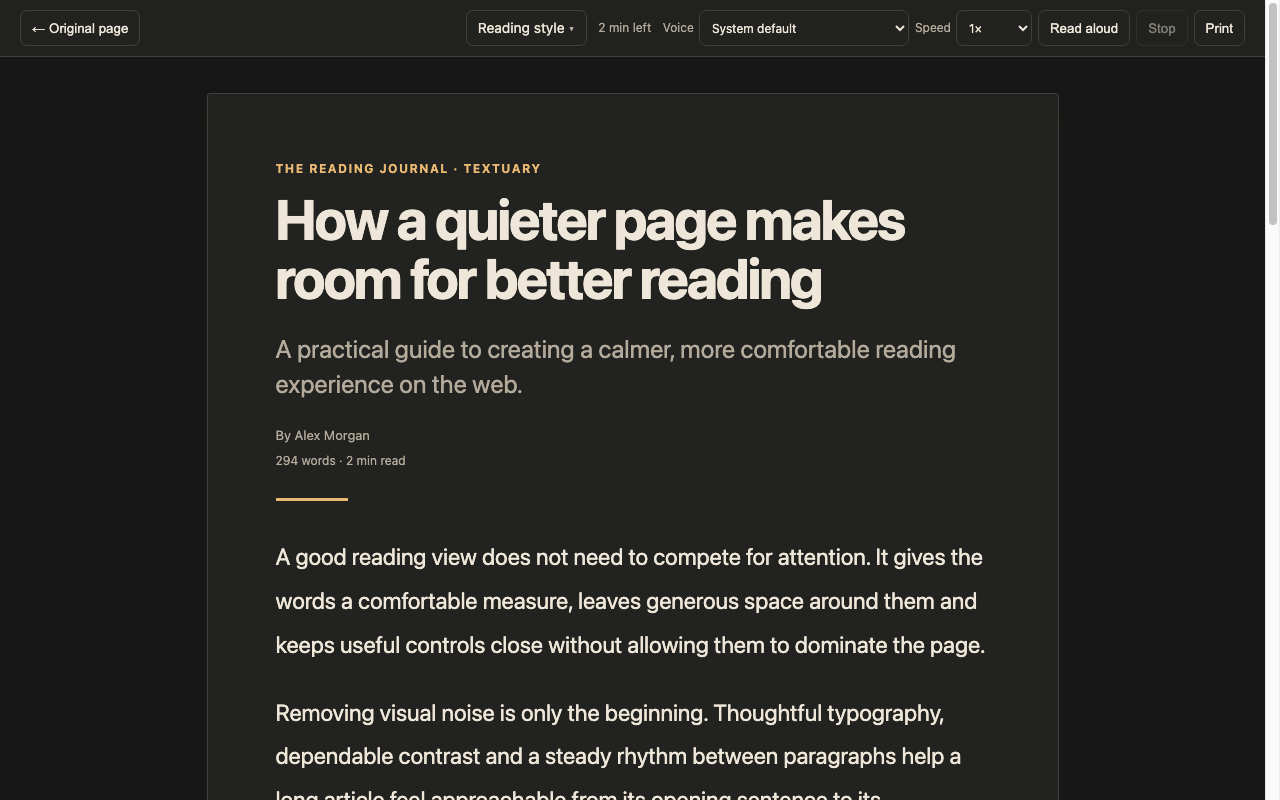
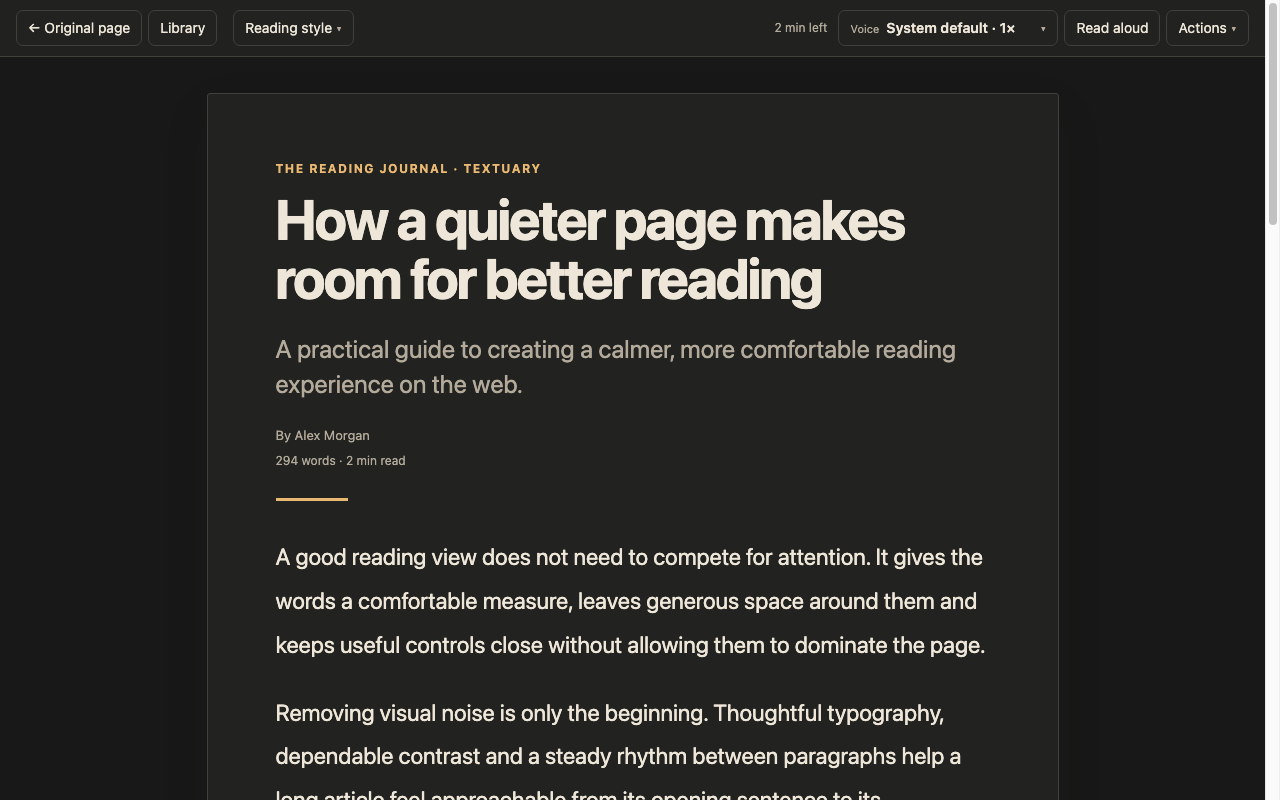
Refresh Textuary 2.8 store materials

diff --git a/store/chrome/LISTING.md b/store/chrome/LISTING.md
@@ -1,12 +1,12 @@
 # Chrome Web Store Listing
 
-Prepared for Textuary 2.6.0 experimental validation; refresh screenshots and final wording before submission.
+Prepared for Textuary 2.8.0 release validation; confirm the final dashboard rendering before submission.
 
 ## Product details
 
 **Name:** Textuary — Article Reader & Text Sanctuary
 
-**Summary:** Read and listen to articles in a calm text sanctuary with progress, typography controls and private read-aloud.
+**Summary:** Read, listen to and save articles in a calm text sanctuary with private read-aloud and an account-free local Library.
 
 **Category:** Productivity
 
@@ -27,16 +27,19 @@ Features:
 - selectable voice and playback speed
 - pause, resume and stop controls
 - automatic highlighting of the passage being read aloud
-- clean printing and PDF output
+- an account-free local Library with offline clean-text snapshots
+- Library search, read/unread controls and restored reading and read-aloud positions
+- same-tab return from the Library without duplicate article tabs
+- clean printing and PDF output using the selected reader typeface
 - a keyboard shortcut for quick access
 
-Textuary runs only when you activate it. Article extraction and sanitisation happen locally in the browser. Reading and speech preferences are saved only in browser extension storage. If the user enables Natural voices, the browser downloads and caches approximately 330 MB of model data from Hugging Face; the packaged runtime still generates speech locally and never transmits article text. Textuary contains no advertising or analytics and does not transmit article text or browsing activity to the developer.
+Textuary runs only when you activate it. Article extraction and sanitisation happen locally in the browser. Reading and speech preferences are saved in local browser extension storage. An article snapshot, its original URL and reading state are stored only when the user explicitly chooses Save article; Textuary does not upload or synchronise the Library. If the user enables Natural voices, the browser downloads and caches approximately 330 MB of model data from Hugging Face; the packaged runtime still generates speech locally and never transmits article text. Textuary contains no advertising or analytics and does not transmit article text or browsing activity to the developer.
 
 Some pages do not deliver their complete article to the browser. Textuary can reorganise content that is available in the page, but it cannot retrieve text that was never delivered.
 
 ## Single purpose
 
-Transform the article in the user-selected active tab into a clean local reading view and provide reading controls for that article.
+Transform an article in the user-selected active tab into a clean local reading view with reading, listening, printing and explicitly requested local saving controls.
 
 ## Permission justifications
 
@@ -50,12 +53,13 @@ Runs the packaged Readability, DOMPurify and Textuary code in the user-selected 
 
 ### `storage`
 
-Remembers the user's selected theme, typography, speech engine, voice, speech speed and Natural-voice consent locally. It does not store article content, URLs, browsing history or reading activity.
+Stores the user's selected theme, typography, speech engine, voice, speech speed and Natural-voice consent locally. It also holds clean article snapshots, original URLs and reading state only for articles the user explicitly saves in the local Library. Textuary does not use browser sync storage and does not collect browsing history.
 
 ## Privacy declarations
 
 - Website content and the active page URL are processed locally solely to provide the reader feature requested by the user.
 - Theme, typography, voice and speech-speed preferences are stored locally through browser extension storage.
+- Clean article HTML, its original URL, metadata and reading state are stored locally only after the user explicitly chooses **Save article**. Saved entries are not uploaded or synchronised by Textuary and can be individually deleted or cleared from the Library.
 - No article content, URLs or browsing activity are transmitted to the developer or a speech service. After opt-in, ordinary model-file requests are made to Hugging Face without article text.
 - No data is sold or used for advertising, creditworthiness or purposes unrelated to the extension's single purpose.
 - No remotely hosted executable code is used. Kokoro model and voice files are downloaded data interpreted by the packaged runtime.
@@ -83,8 +87,10 @@ The dashboard wording may change. Ensure its selected data categories describe l
 2. Open a substantial public article over `https` and wait for it to load.
 3. Click the Textuary toolbar button.
 4. Confirm that the page becomes a clean article view.
-5. Test the reading-time display, progress bar, Reading style controls, printing and read-aloud highlighting.
-6. Click **Original page** to restore the source page.
+5. Test the reading-time display, floating time remaining, progress bar, Reading style controls, Voice popover, printing and read-aloud highlighting.
+6. Open **Actions**, choose **Save article**, then open **Library** and confirm the saved article appears.
+7. Choose **Return to article** and confirm the reader returns in the same tab.
+8. Click **Original page** to restore the source page.
 
 No account or test credentials are required.
 
@@ -93,6 +99,8 @@ No account or test credentials are required.
 - `../../icons/icon-128-store.png` — padded 128 x 128 store icon
 - `assets/reader-light-1280x800.png` — primary product screenshot
 - `assets/reader-dark-1280x800.png` — dark-theme product screenshot
+- `assets/reader-voice-1280x800.png` — voice and speed controls
+- `assets/library-1280x800.png` — account-free local Library
 - `assets/promo-small-440x280.png` — small promotional tile
 
 See [the submission checklist](SUBMISSION_CHECKLIST.md) for the remaining account and Windows-test steps.

diff --git a/RELEASE_2_8_NEXT_STEPS.md b/RELEASE_2_8_NEXT_STEPS.md
@@ -1,0 +1,89 @@
+# Textuary 2.8 Release Next Steps
+
+Status: release preparation after successful macOS Chrome and Safari validation
+
+This checklist records the work required before beginning Textuary 2.9. Version 2.8 is functionally complete; the remaining work is release preparation, Windows validation and store submission.
+
+## 1. Close the 2.8 documentation
+
+- [x] Record successful manual macOS Chrome and packaged Safari validation.
+- [x] Refresh the Chrome Web Store listing for the 2.8 Library, toolbar, printing and read-aloud interface.
+- [x] Update permission explanations and reviewer instructions for explicitly saved local article snapshots.
+- [x] Keep the listing, privacy policy, support guide and manifests consistent.
+- [x] Update the Chrome submission checklist from its earlier 2.5 scope.
+
+## 2. Refresh store artwork
+
+- [x] Replace the old reader screenshots with the finished 2.8 interface.
+- [x] Include the main reader, Voice popover, evening theme and local Library.
+- [x] Confirm every screenshot is an authentic 1280 x 800 PNG using synthetic article content.
+- [x] Revalidate the 128 x 128 icon and 440 x 280 promotional tile.
+- [x] Review every image at actual size for cropping, temporary notices and test artefacts.
+
+## 3. Validate the exact release on Windows Chrome
+
+- [ ] Install the unpacked release package in ordinary Windows Chrome.
+- [ ] Confirm extraction across several ordinary public publishers.
+- [ ] Check the complete toolbar at common desktop window sizes.
+- [ ] Check paper, evening and ambient themes plus every typography control.
+- [ ] Test Windows system voices, selection and playback speed.
+- [ ] Test Kokoro/WebGPU startup, performance and fallback behaviour.
+- [ ] Test pause, resume, Stop, passage highlighting and saved-passage restoration.
+- [ ] Test Save article, Library, deletion, clear-all and Return to article.
+- [ ] Test `Alt+Shift+R`.
+- [ ] Test printing/PDF margins and the selected reader typeface.
+- [ ] Confirm there are no macOS-only assumptions in copy, paths, fonts or shortcuts.
+
+Record the Windows version, Chrome version, graphics adapter and any WebGPU fallback observed.
+
+## 4. Create the final release
+
+- [ ] Merge `feature/safari-native-premium-voices` into `main` without losing the preserved history.
+- [ ] Confirm all manifests, package metadata and Xcode targets use version 2.8.0 and an appropriate build number.
+- [ ] Run the complete automated checks and `npm run release:chrome`.
+- [ ] Test the exact generated ZIP on macOS and Windows rather than relying only on the working directory.
+- [ ] Create a checksum for the final ZIP.
+- [ ] Tag `v2.8.0`.
+- [ ] Create a GitHub release containing release notes, the Chrome ZIP and the checksum.
+
+## 5. Submit to the Chrome Web Store
+
+Account-owner actions:
+
+- [ ] Register and configure the Chrome Web Store developer account.
+- [ ] Confirm the public developer/publisher display name.
+- [ ] Complete any required registration payment and account verification.
+- [ ] Upload the final 2.8 ZIP and prepared assets.
+- [ ] Complete the Store Listing, Privacy and Distribution sections.
+- [ ] Select public, free distribution and the intended supported regions.
+- [ ] Review the rendered listing and screenshot cropping.
+- [ ] Submit with deferred publishing if a manual release after approval is preferred.
+- [ ] Respond to reviewer questions and approve publication.
+
+## 6. Prepare Safari/App Store distribution
+
+- [ ] Decide whether the first Apple release is macOS-only or also claims iPhone/iPad support. A macOS-only first release is the lower-risk route.
+- [ ] Confirm Apple Developer Program membership and agreements.
+- [ ] Assign production bundle identifiers, signing and version/build numbers.
+- [ ] Complete the containing application and extension icons.
+- [ ] Create the App Store Connect record.
+- [ ] Archive and upload the signed application.
+- [ ] Add product screenshots, support URL, privacy policy and data-practice declarations.
+- [ ] Test the uploaded build locally or through TestFlight.
+- [ ] Complete compliance questions and submit for App Review.
+
+## 7. Validate iPad/iPhone before claiming support
+
+- [ ] Install Xcode's matching iOS platform component.
+- [ ] Complete a generic iOS device build.
+- [ ] Install and test on a physical iPad and/or iPhone.
+- [ ] Check extension enablement, page access, responsive layout, Library storage and Premium Apple speech.
+- [ ] Prepare device-specific App Store screenshots if iOS/iPadOS is included.
+
+## 8. Optional 2.8.1 work
+
+Media-complete offline snapshots are not a 2.8 release requirement. Image caching, storage limits and offline-state messaging can be evaluated while the store submissions are under review. Avoid delaying the proven 2.8 release unless testing exposes a genuine release blocker.
+
+## Responsibility split
+
+Codex can prepare documentation, artwork, packages, automated checks, branch integration, tags, checksums and release notes. The account owner must provide Windows/device access and personally approve developer enrolment, fees, agreements, identity details and final store submissions.

diff --git a/STORE_PUBLISHING_ROADMAP.md b/STORE_PUBLISHING_ROADMAP.md
@@ -6,7 +6,7 @@ Textuary can be distributed through both the Chrome Web Store and Apple's App St
 
 ## Current position
 
-Version 2.5.0 remains the preserved release candidate on `main`. Chrome's Kokoro work is preserved on `feature/kokoro-natural-voices`. The current `feature/safari-native-premium-voices` branch has now passed manual macOS Chrome and Safari testing through version 2.7.1. Version 2.8.0 begins the local reading-library phase while retaining:
+Version 2.5.0 remains preserved on `main`. Chrome's Kokoro work is preserved on `feature/kokoro-natural-voices`. The current `feature/safari-native-premium-voices` branch is the version 2.8.0 release candidate and has passed manual macOS Chrome and packaged Safari validation. It includes:
 
 - Manifest V3 extension
 - compatible with Chrome and Safari
@@ -126,11 +126,12 @@ Completed on 6 August 2026:
 - manual macOS Chrome listening and reader validation, including Kokoro voices
 - manual packaged macOS Safari validation with Selena Premium
 - manual Chrome and Safari validation of complete headlines, images and video cleanup
+- manual macOS Chrome and packaged Safari validation of the complete 2.8 Library, toolbar, printing and read-aloud interface
+- refreshed 2.8 Chrome Store listing, permission disclosures and six validated store assets
 
 Still required before Chrome submission:
 
 - complete the Windows Chrome validation
-- refresh the listing screenshots and copy if version 2.8 becomes the first submitted build
 - complete the developer account, dashboard, upload and review steps in [`store/chrome/SUBMISSION_CHECKLIST.md`](store/chrome/SUBMISSION_CHECKLIST.md)
 
 ## Product roadmap after publication
@@ -179,7 +180,7 @@ Still required before Chrome submission:
 - [x] automated Chrome and Safari-mode media regression tests
 - [x] manual Safari test against the Daily Mail comparison article
 
-### Version 2.8: personal reading library — ready for manual validation 8 August 2026
+### Version 2.8: personal reading library — completed on macOS 9 August 2026
 
 - [x] save clean article text locally without an account
 - [x] reopen a saved article in the full Textuary reading experience
@@ -194,7 +195,7 @@ Still required before Chrome submission:
 - [x] standalone print stylesheet with one-inch layout, selected reader typeface and page-break rules
 - [x] update the privacy policy and README for local article storage
 - [x] automated live-package validation in Chrome and Safari modes
-- [ ] manual macOS Chrome and Safari validation
+- [x] manual macOS Chrome and Safari validation
 - [ ] Windows Chrome validation
 - [ ] physical iPad/iPhone Safari test
 

diff --git a/store/chrome/SUBMISSION_CHECKLIST.md b/store/chrome/SUBMISSION_CHECKLIST.md
@@ -1,6 +1,6 @@
 # Chrome Web Store Submission Checklist
 
-Prepared for Textuary 2.5.0 on 6 August 2026.
+Updated for Textuary 2.8.0 on 9 August 2026.
 
 ## Completed in the repository
 
@@ -12,12 +12,25 @@ Prepared for Textuary 2.5.0 on 6 August 2026.
 - [x] 128 x 128 PNG icon
 - [x] 1280 x 800 light-theme screenshot
 - [x] 1280 x 800 dark-theme screenshot
+- [x] 1280 x 800 Natural voice controls screenshot
+- [x] 1280 x 800 local Library screenshot
 - [x] 440 x 280 small promotional tile
 - [x] allowlisted release-packaging script
 - [x] Chrome-specific manifest without Safari-only metadata
 - [x] automated package and asset validation
 - [x] macOS Chrome smoke test against the packaged runtime files
 - [x] distinctive public name: **Textuary — Article Reader & Text Sanctuary**
+- [x] account-free local Library with explicit local snapshot storage
+- [x] same-tab Library return, saved-state synchronisation and restored reading positions
+- [x] standalone one-inch print layout using the selected reader typeface
+- [x] manual macOS Chrome and packaged Safari validation of version 2.8
+
+## Release-preparation work
+
+- [x] refresh all listing screenshots from the finished 2.8 interface
+- [x] refresh the detailed description, `storage` justification and reviewer instructions for version 2.8
+- [x] re-run package and store-asset validation after the refresh
+- [ ] merge the release candidate to `main`, tag `v2.8.0` and publish a GitHub release
 
 ## Required before submission
 

diff --git a/store/chrome/ASSETS.md b/store/chrome/ASSETS.md
@@ -3,7 +3,9 @@
 The store submission uses authentic Textuary UI and the existing project icon.
 
 - Store icon: `icons/icon-128-store.png`, a 128 x 128 PNG with the existing mark padded for the store
-- Paper and evening screenshots: 1280 x 800 PNG, captured from the 2.5.0 reader against a synthetic article
+- Paper and evening screenshots: 1280 x 800 PNG, captured from the 2.8.0 reader against a synthetic article
+- Voice screenshot: 1280 x 800 PNG showing the consolidated local read-aloud controls
+- Library screenshot: 1280 x 800 PNG showing the account-free saved-article Library
 - Small promotional tile: 440 x 280 PNG, rendered from `promo-small.svg`
 
 The synthetic article avoids publishing third-party article text in marketing materials. Recreate the release package with `npm run release:chrome`, then use the package staging directory when running the screenshot test.

diff --git a/README.md b/README.md
@@ -58,7 +58,7 @@ Readability 0.6.0, DOMPurify 3.4.13, the Kokoro.js 1.2.1 browser runtime and its
 
 See the [privacy policy](PRIVACY.md) and [support guide](SUPPORT.md) for the public store disclosures and help information.
 
-Chrome Web Store preparation materials are under [`store/chrome`](store/chrome), including the draft listing, approved-size artwork and submission checklist.
+Chrome Web Store preparation materials are under [`store/chrome`](store/chrome), including the draft listing, approved-size artwork and submission checklist. The remaining release, Windows and account-owner work is recorded in [`RELEASE_2_8_NEXT_STEPS.md`](RELEASE_2_8_NEXT_STEPS.md).
 
 ## Troubleshooting
 
